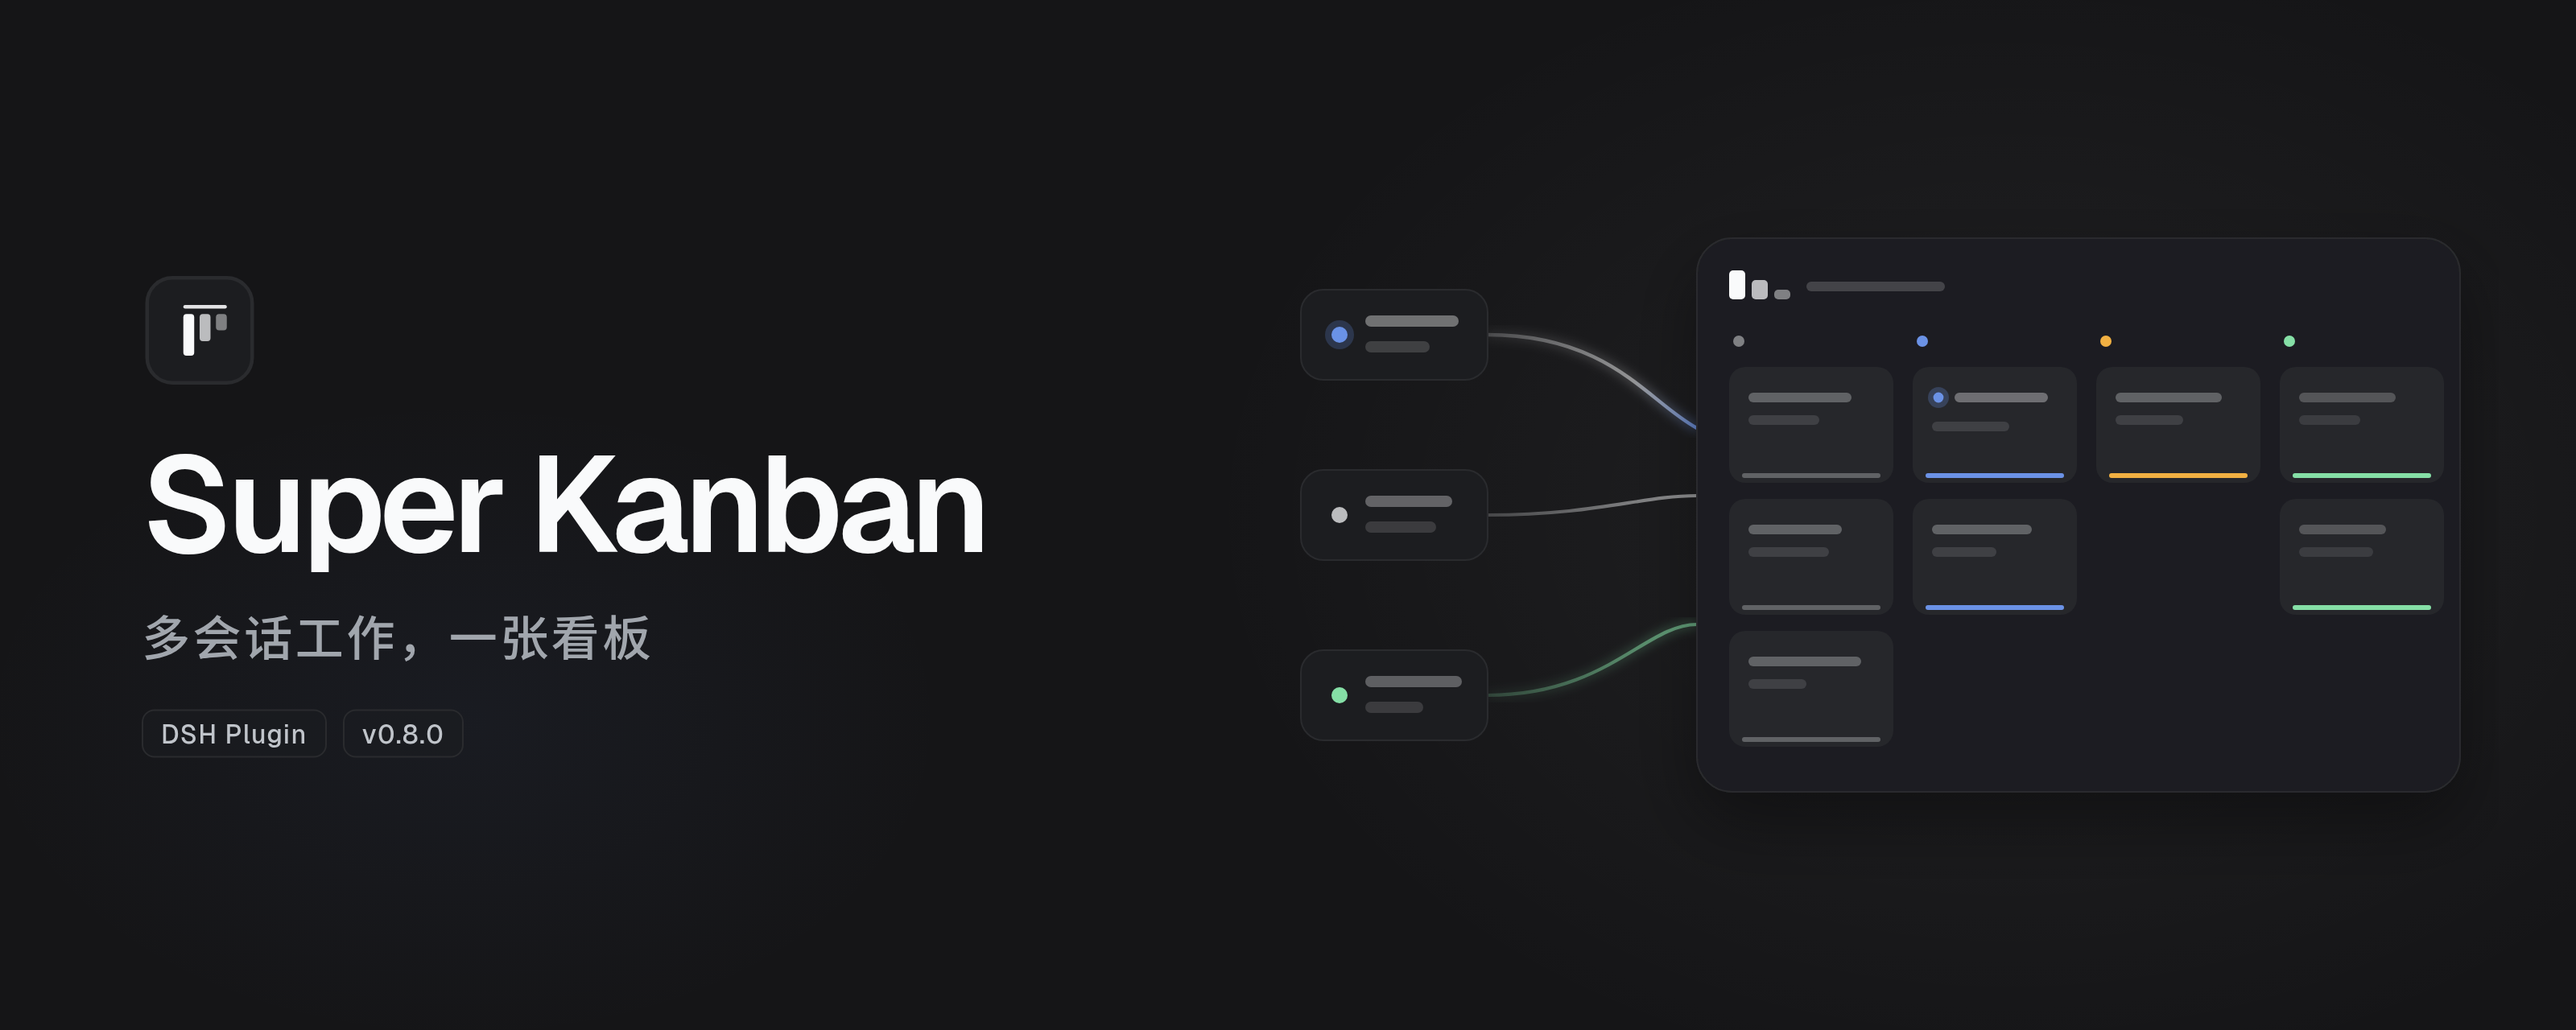
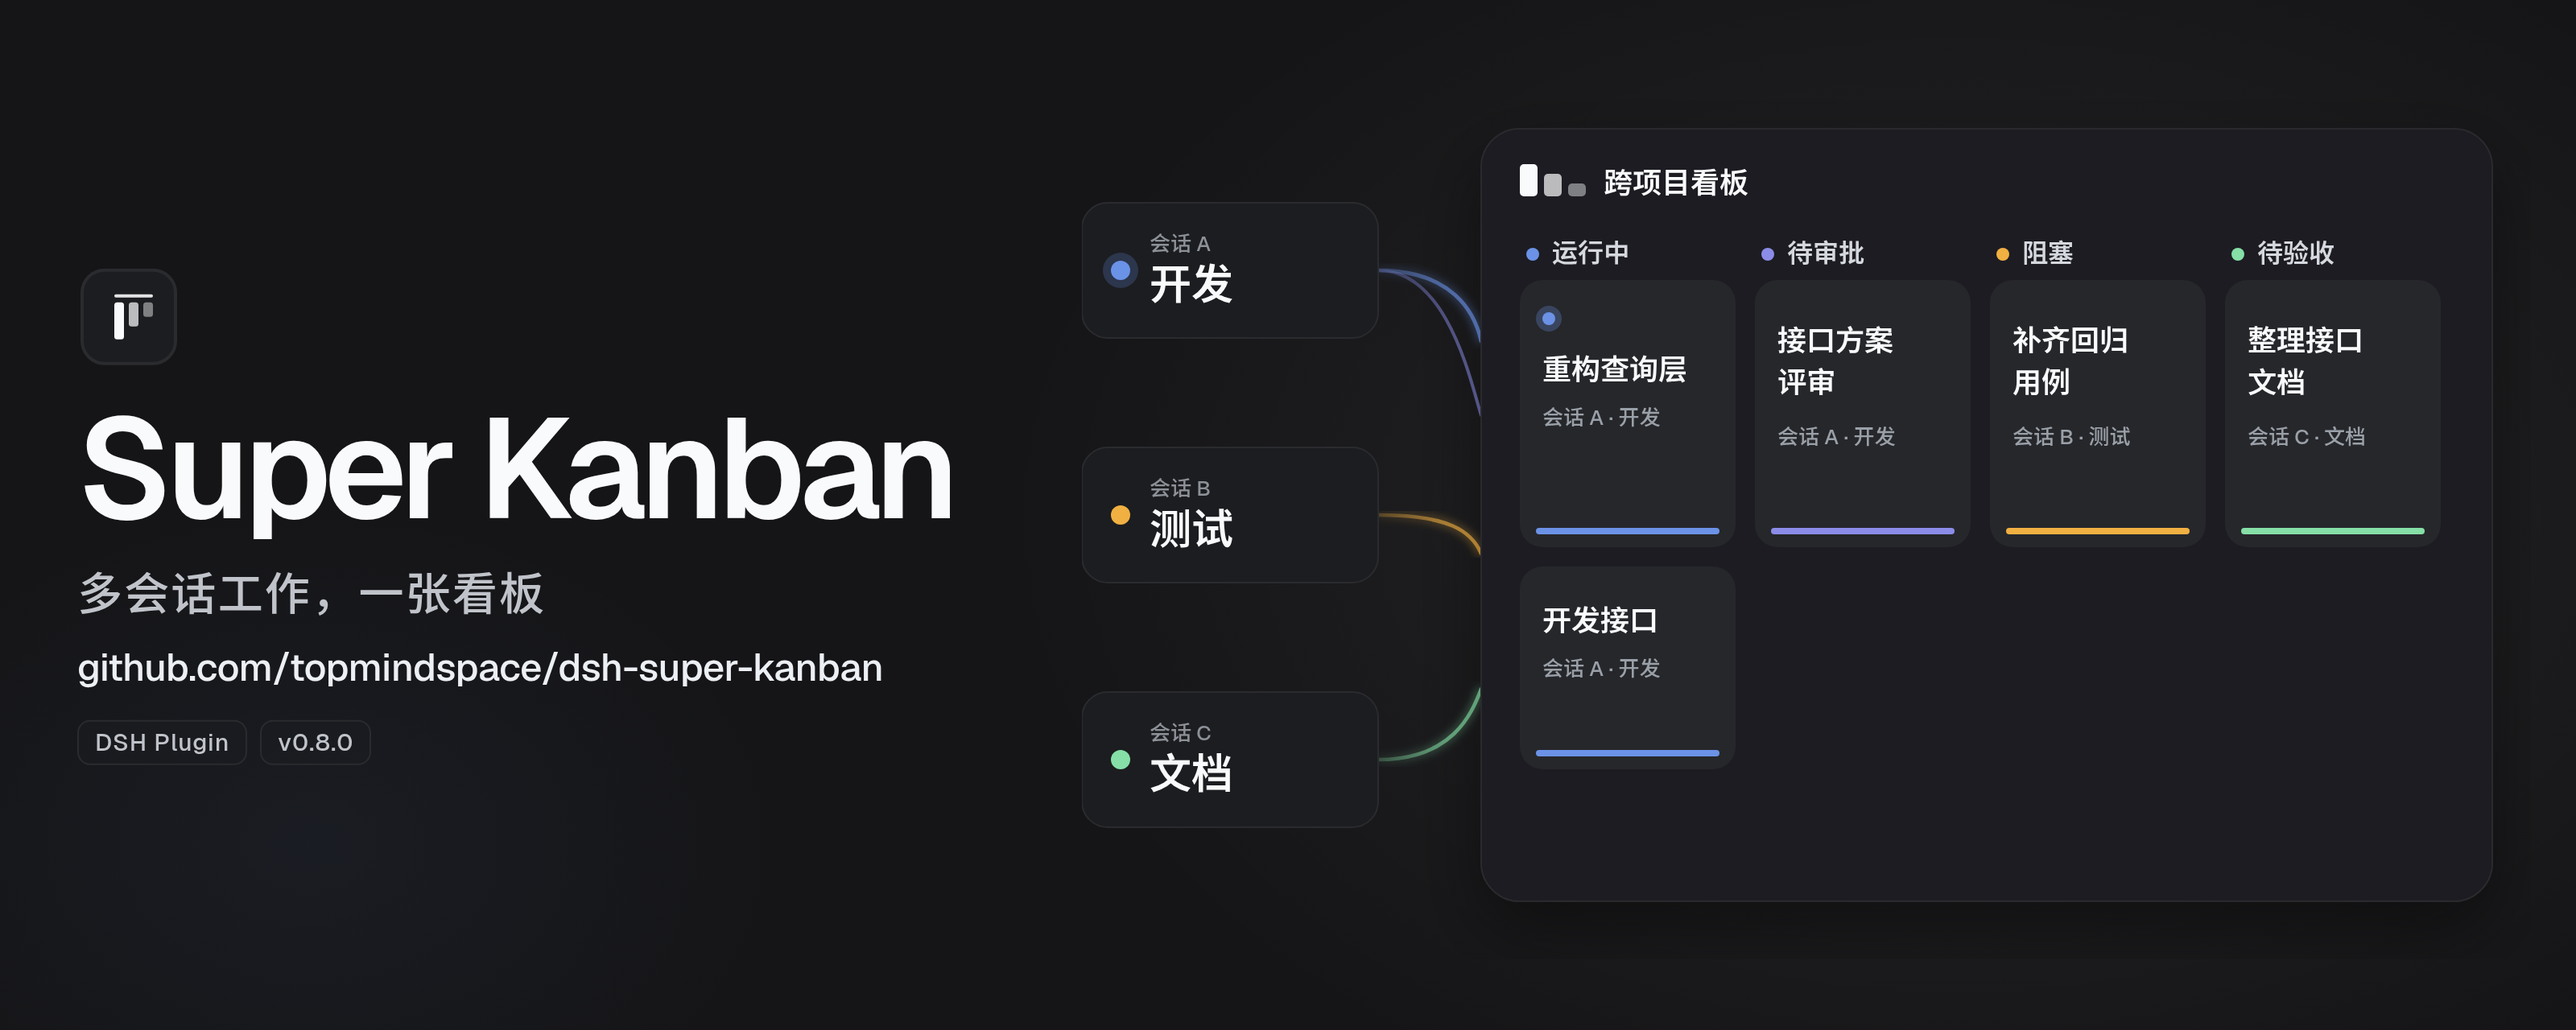
docs: update cover and clarify guidance

diff --git a/docs/SCREENSHOTS.md b/docs/SCREENSHOTS.md
@@ -1,22 +1,23 @@
-# 界面截图
+# 界面截图 / Screenshots
 
-[返回 README](../README.md)
+[简体中文](../README.md) | [English](../README.en.md)
 
 ![任务看板（浅色）](https://raw.githubusercontent.com/topmindspace/dsh-super-kanban/main/docs/screenshots/board-light.png)
 
-| 项目管理 | 项目日程 |
+| 项目管理 / Projects | 项目日程 / Schedule |
 | --- | --- |
 | ![项目管理](https://raw.githubusercontent.com/topmindspace/dsh-super-kanban/main/docs/screenshots/projects.png) | ![项目日程](https://raw.githubusercontent.com/topmindspace/dsh-super-kanban/main/docs/screenshots/project-schedule.png) |
 
-| 看板（深色） | 任务详情 |
+| 看板（深色） / Board (dark) | 任务详情 / Task details |
 | --- | --- |
 | ![看板深色](https://raw.githubusercontent.com/topmindspace/dsh-super-kanban/main/docs/screenshots/board-dark.png) | ![任务详情](https://raw.githubusercontent.com/topmindspace/dsh-super-kanban/main/docs/screenshots/drawer-light.png) |
 
-| 模型选择 | 右侧栏形态 |
+| 模型选择 / Model selection | 右侧栏 / Sidebar |
 | --- | --- |
 | ![模型选择](https://raw.githubusercontent.com/topmindspace/dsh-super-kanban/main/docs/screenshots/model-picker.png) | ![右侧栏](https://raw.githubusercontent.com/topmindspace/dsh-super-kanban/main/docs/screenshots/side-panel.png) |
 
 更多截图：[演示动图](https://raw.githubusercontent.com/topmindspace/dsh-super-kanban/main/docs/screenshots/demo.gif)、[深色任务详情](https://raw.githubusercontent.com/topmindspace/dsh-super-kanban/main/docs/screenshots/drawer-dark.png)、[继续任务](https://raw.githubusercontent.com/topmindspace/dsh-super-kanban/main/docs/screenshots/continue-modal.png)、[提示词放入会话](https://raw.githubusercontent.com/topmindspace/dsh-super-kanban/main/docs/screenshots/continue-placed.png)、[右侧栏全屏](https://raw.githubusercontent.com/topmindspace/dsh-super-kanban/main/docs/screenshots/side-fullscreen.png)、[产物预览](https://raw.githubusercontent.com/topmindspace/dsh-super-kanban/main/docs/screenshots/drawer-artifacts.png)、[窄屏快聊](https://raw.githubusercontent.com/topmindspace/dsh-super-kanban/main/docs/screenshots/chat-narrow.png)。
 
-> 截图来自一套完全虚构的演示数据，不含任何真实用户或工作区信息。
+> 截图使用虚构的演示数据，不含真实用户或工作区信息。
+> Screenshots use fictional demo data and contain no real user or workspace information.
 

diff --git a/README.en.md b/README.en.md
@@ -10,6 +10,8 @@ Manage projects and tasks in DeepSeek Harness (DSH): track session progress, han
 
 ![Super Kanban cover](https://raw.githubusercontent.com/topmindspace/dsh-super-kanban/main/docs/cover.png)
 
+> The cover is an illustration; see the screenshot gallery for the actual interface.
+
 ## Features
 
 - **Automatic updates**: incrementally scan sessions for progress, issues, and deliverables; manage tasks manually and lock fields too.
@@ -21,7 +23,7 @@ Manage projects and tasks in DeepSeek Harness (DSH): track session progress, han
 
 ## Quick start
 
-1. In DSH, open **Plugins → Add plugin**, enter `dsh-super-kanban@0.8.0`, install and enable it, then reload the window. You can also use the [plugin market](https://topmindspace.github.io/dsh-super-kanban/index.json) or install from source; `0.8.0` is an example of an exact version.
+1. In DSH, open **Plugins → Add plugin**, enter `dsh-super-kanban@0.8.0`, install and enable it, then reload the window. You can also use the [plugin market](https://github.com/topmindspace/dsh-super-kanban/blob/main/docs/INSTALL.md#方式-a插件市场索引推荐) or install from source; `0.8.0` is an example of an exact version.
 2. Open **任务看板** (Task board) in the left sidebar, check the scan scope in settings, and click **扫描** (Scan). The UI is currently in Chinese.
 3. Open **待处理** (Inbox), select a task, and choose **继续此任务** (Continue task) or **验收产出** (Review deliverables). Review the draft and send it yourself.
 

diff --git a/README.md b/README.md
@@ -10,6 +10,8 @@
 
 ![Super Kanban 封面](https://raw.githubusercontent.com/topmindspace/dsh-super-kanban/main/docs/cover.png)
 
+> 封面为功能示意，实际界面见截图页面。
+
 ## 功能
 
 - **自动更新**：增量扫描会话，整理任务进度、问题和交付物；也可手动管理和锁定字段。
@@ -21,7 +23,7 @@
 
 ## 快速开始
 
-1. 在 DSH 的 **插件 → 添加插件** 输入 `dsh-super-kanban@0.8.0`，安装、启用并刷新窗口。也可通过[插件市场](https://topmindspace.github.io/dsh-super-kanban/index.json)或源码安装；`0.8.0` 是精确版本示例。
+1. 在 DSH 的 **插件 → 添加插件** 输入 `dsh-super-kanban@0.8.0`，安装、启用并刷新窗口。也可通过[插件市场](https://github.com/topmindspace/dsh-super-kanban/blob/main/docs/INSTALL.md#方式-a插件市场索引推荐)或源码安装；`0.8.0` 是精确版本示例。
 2. 打开左侧 **任务看板**，在设置中确认扫描范围，然后点击 **扫描**。
 3. 在 **待处理** 查看需要关注的事项，打开任务详情，选择 **继续此任务** 或 **验收产出**。检查草稿后由你发送。
 
